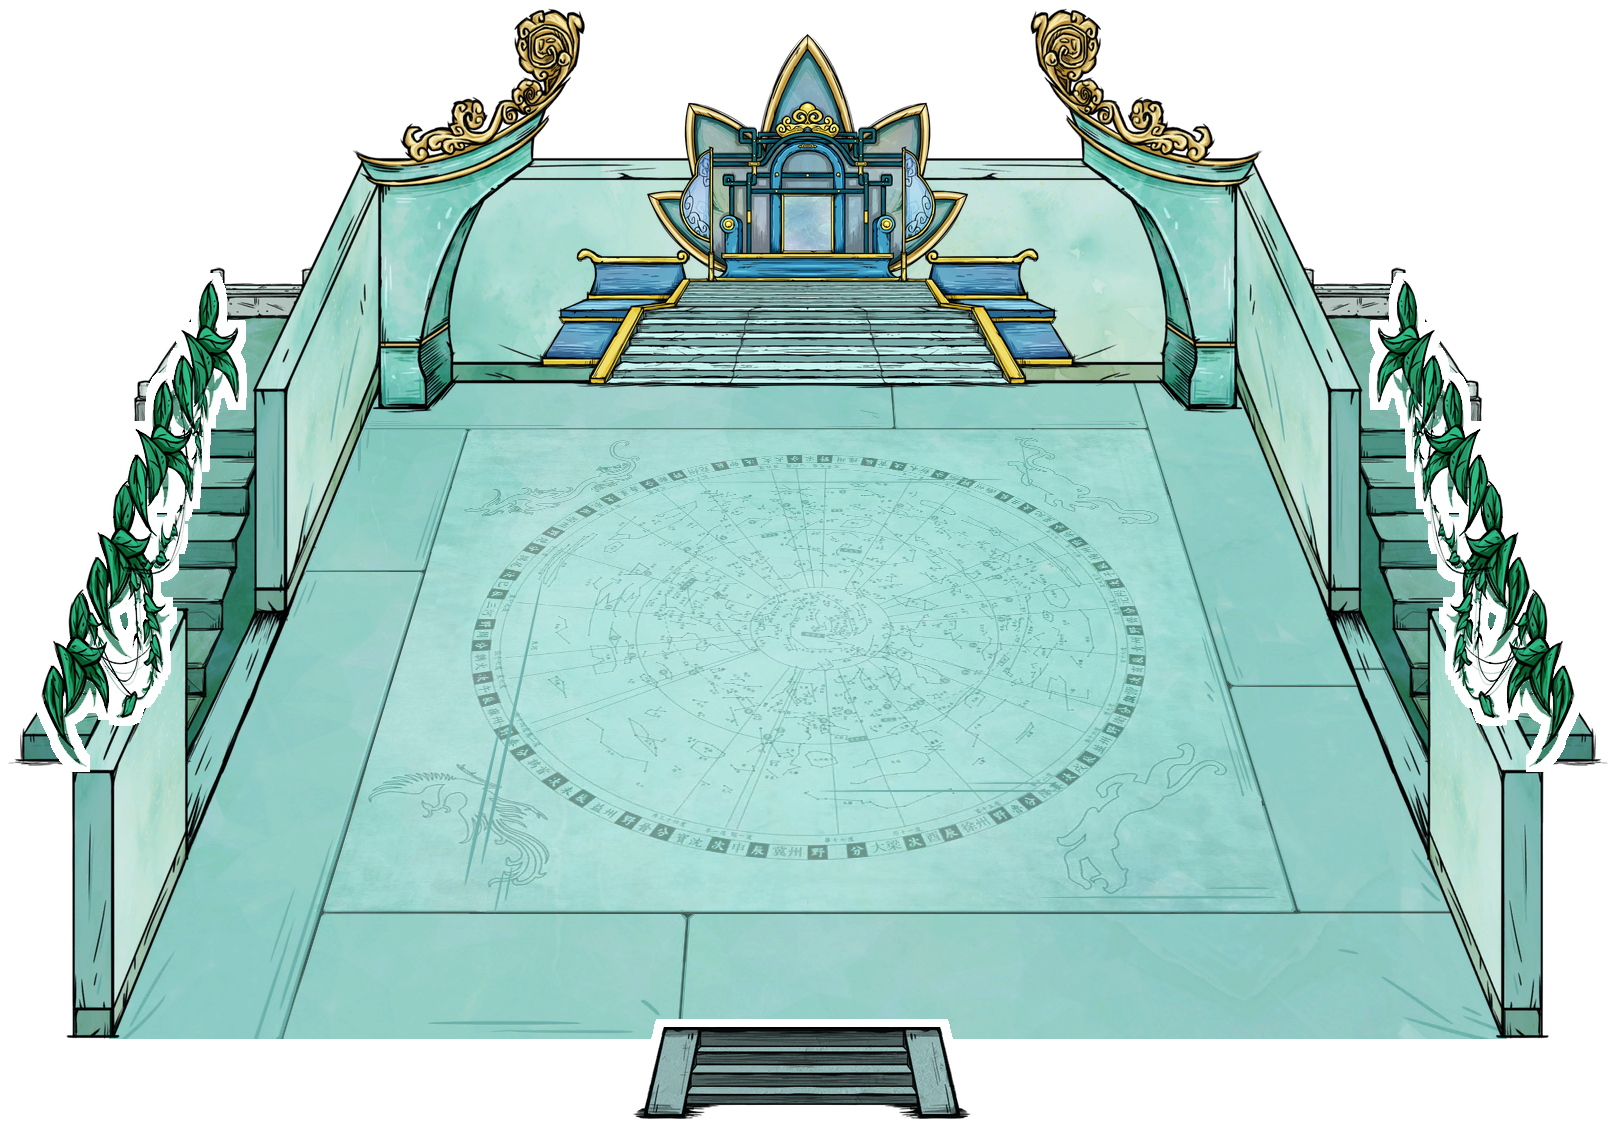
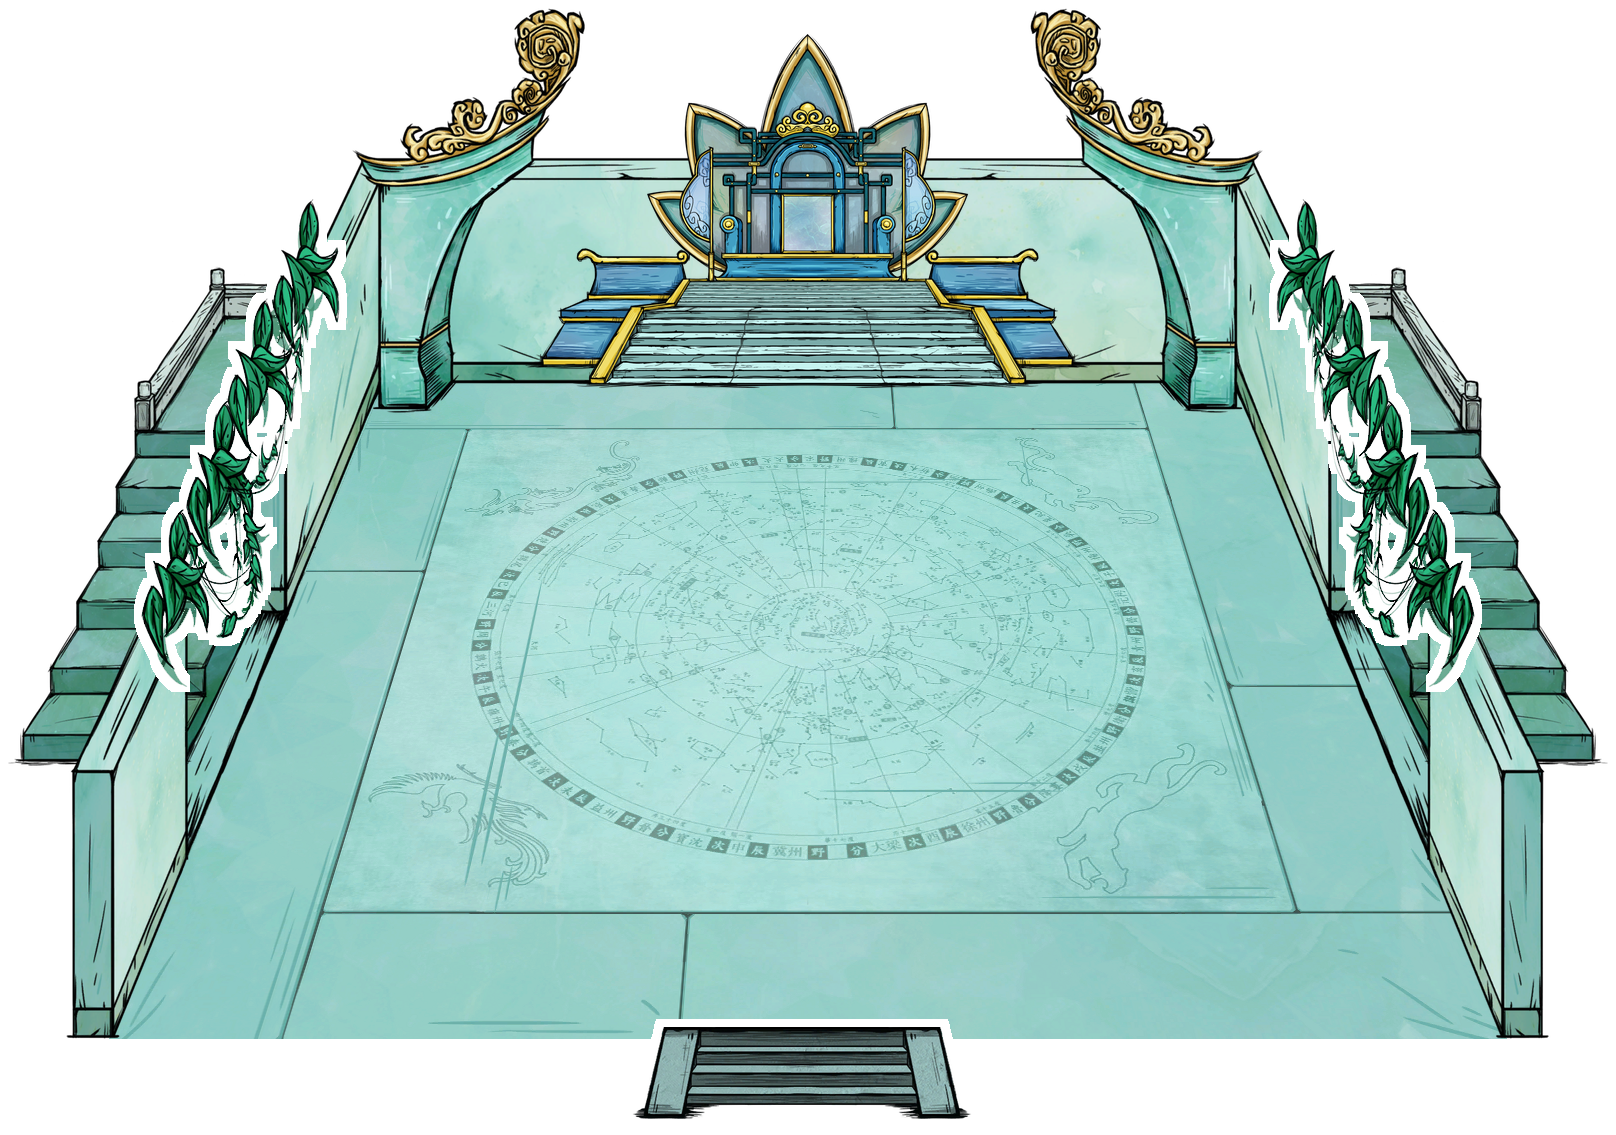
Align hall vines along the inner stair edges

Changed region(s): [[0.7735, 0.185, 0.9901, 0.6784], [0.0, 0.185, 0.2166, 0.6784]]

diff --git a/data/site-data.js b/data/site-data.js
@@ -3837,8 +3837,8 @@ window.SITE_DATA = {
       "illustration": "assets/img/terrains/loc_hall.png",
       "preview_caption": "厅堂内景预览",
       "scene_hotspots": [
-        {"label": "引霄灵藤（左侧）", "target": "loc_bedroom", "x": 9.7772, "y": 46.0793, "width": 14.4802, "height": 42.9956, "hint": "进入左侧卧房", "hint_align": "start"},
-        {"label": "引霄灵藤（右侧）", "target": "loc_bedroom_right", "x": 90.2228, "y": 46.0793, "width": 14.4802, "height": 42.9956, "hint": "进入右侧卧房", "hint_align": "end"},
+        {"label": "引霄灵藤（左侧）", "target": "loc_bedroom", "x": 15.9653, "y": 39.0308, "width": 14.4802, "height": 42.9956, "hint": "进入左侧卧房", "hint_align": "start"},
+        {"label": "引霄灵藤（右侧）", "target": "loc_bedroom_right", "x": 84.0347, "y": 39.0308, "width": 14.4802, "height": 42.9956, "hint": "进入右侧卧房", "hint_align": "end"},
         {"label": "青石楼梯", "target": "loc_foyer", "x": 49.6287, "y": 94.5374, "width": 21.0396, "height": 8.1057, "hint": "返回前室"}
       ],
       "scene_hint": "点击图中引霄灵藤（左侧）、引霄灵藤（右侧）、青石楼梯，前往对应位置。",

diff --git a/tools/export_terrain_previews.py b/tools/export_terrain_previews.py
@@ -35,7 +35,7 @@ FLOOR_QUADS = {
 
 # Separate prefabs spawned by bighead_door_exit.lua, not baked into the walls.
 # World positions are (x, z) relative to each house centre. Preview offsets
-# align the vines with the side stairs and doors with the front wall openings; they are
+# align the vines with the inner edge of the side stairs and doors with the front wall openings; they are
 # image-space calibration, not changes to the mod's world coordinates.
 # preview_scale also calibrates the cutaway composition: foreground doors and
 # steps must remain readable beside the separately projected floor and walls.
@@ -55,13 +55,13 @@ FURNISHINGS = {
          'world_position': (-15.3, 0)},
         {'prefab': 'bighead_men2', 'animation': 'men2',
          'preview_scale': 1.5,
-         'world_position': (1.65, -15), 'preview_offset': (-140, 100),
+         'world_position': (1.65, -15), 'preview_offset': (-40, 20),
          'target': 'loc_bedroom', 'label': '引霄灵藤（左侧）',
          'hint': '进入左侧卧房', 'hint_align': 'start'},
         {'prefab': 'bighead_men2', 'animation': 'men2',
          'preview_scale': 1.5,
          'world_position': (1.65, 15), 'mirror_x': True,
-         'preview_offset': (140, 100),
+         'preview_offset': (40, 20),
          'target': 'loc_bedroom_right', 'label': '引霄灵藤（右侧）',
          'hint': '进入右侧卧房', 'hint_align': 'end'},
         {'prefab': 'bighead_door_exit', 'source': 'bighead_door_exit',

diff --git a/docs/04-v4.8资料同步.md b/docs/04-v4.8资料同步.md
@@ -340,6 +340,6 @@ python tools/export_character_models.py --tool "C:/Users/huan/Downloads/dst-app.
 四间室内预览的可通行陈设统一加8px白色轮廓，覆盖铃铛、青石楼梯、两侧灵藤及卧房门。
 描边只沿实体外缘生成，保留原图内部的透明细节；太极莲尊等不可通行陈设不加描边。
 屋外可点击建筑使用相同的白边提示。前室、厅堂的出口楼梯下移至前侧地板边缘，
-厅堂两侧灵藤上移170px；原生图形大小、地板透视保持原有参数。
+厅堂两侧灵藤沿侧梯向上、向内移动，贴近内沿；原生图形大小、地板透视保持原有参数。
 `tools/export_terrain_previews.py` 重新合成时同步更新图片尺寸、陈设记录与点击区域，
 建筑页和详情预览共用这些图片及入口数据。
